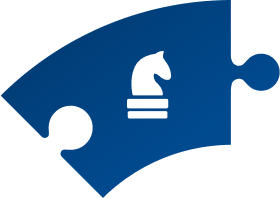
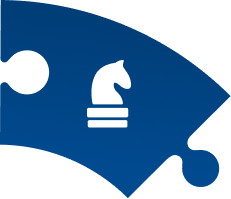
Team photos edited. Practices reposition

diff --git a/src/Pages/MainPage/Sections/Practices/Practices.tsx b/src/Pages/MainPage/Sections/Practices/Practices.tsx
@@ -54,8 +54,8 @@ export const Practices = ({ className }: IProps) => {
             <div className={practicesCn('puzzle')}>
               <div className={practicesCn('puzzle-center')}></div>
               <div
-                id={'marketing'}
-                onMouseEnter={() => setActiveSection(SectionType.Marketing)}
+                id={'banking'}
+                onMouseEnter={() => setActiveSection(SectionType.Banking)}
                 className={
                   practicesCn('puzzle-first') +
                   ' ' +
@@ -72,10 +72,19 @@ export const Practices = ({ className }: IProps) => {
                 }
               ></div>
               <div
+                id={'marketing'}
+                onMouseEnter={() => setActiveSection(SectionType.Marketing)}
+                className={
+                  practicesCn('puzzle-third') +
+                  ' ' +
+                  practicesCn('puzzle-selection')
+                }
+              ></div>
+              <div
                 id={'government'}
                 onMouseEnter={() => setActiveSection(SectionType.Government)}
                 className={
-                  practicesCn('puzzle-third') +
+                  practicesCn('puzzle-fourth') +
                   ' ' +
                   practicesCn('puzzle-selection')
                 }
@@ -84,7 +93,7 @@ export const Practices = ({ className }: IProps) => {
                 id={'investing'}
                 onMouseEnter={() => setActiveSection(SectionType.Investing)}
                 className={
-                  practicesCn('puzzle-fourth') +
+                  practicesCn('puzzle-fifth') +
                   ' ' +
                   practicesCn('puzzle-selection')
                 }
@@ -93,7 +102,7 @@ export const Practices = ({ className }: IProps) => {
                 id={'transformation'}
                 onMouseEnter={() => setActiveSection(SectionType.Transformation)}
                 className={
-                  practicesCn('puzzle-fifth') +
+                  practicesCn('puzzle-sixth') +
                   ' ' +
                   practicesCn('puzzle-selection')
                 }
@@ -102,7 +111,7 @@ export const Practices = ({ className }: IProps) => {
                 id={'innovation-projects'}
                 onMouseEnter={() => setActiveSection(SectionType.InnovationProjects)}
                 className={
-                  practicesCn('puzzle-sixth') +
+                  practicesCn('puzzle-seventh') +
                   ' ' +
                   practicesCn('puzzle-selection')
                 }
@@ -110,15 +119,6 @@ export const Practices = ({ className }: IProps) => {
               <div
                 id={'strategy'}
                 onMouseEnter={() => setActiveSection(SectionType.Strategy)}
-                className={
-                  practicesCn('puzzle-seventh') +
-                  ' ' +
-                  practicesCn('puzzle-selection')
-                }
-              ></div>
-              <div
-                id={'banking'}
-                onMouseEnter={() => setActiveSection(SectionType.Banking)}
                 className={
                   practicesCn('puzzle-eighth') +
                   ' ' +

diff --git a/src/Pages/MainPage/Sections/Practices/Practices.scss b/src/Pages/MainPage/Sections/Practices/Practices.scss
@@ -61,18 +61,6 @@
       outline: none;
     }
 
-    &-first {
-      background-image: url("@/assets/images/practices/selection.png");
-      margin-left: 264px;
-      margin-top: -100px;
-      width: 198px;
-      height: 280px;
-
-      &:hover {
-        background-image: url("@/assets/images/practices/selection-active-marketing.png");
-      }
-    }
-
     &-second {
       background-image: url("@/assets/images/practices/selection2.png");
       width: 198px;
@@ -84,6 +72,18 @@
         background-image: url("@/assets/images/practices/selection-active-efficiency.png");
       }
     }
+    
+    &-first {
+      background-image: url("@/assets/images/practices/selection.png");
+      margin-left: 264px;
+      margin-top: -100px;
+      width: 198px;
+      height: 280px;
+
+      &:hover {
+        background-image: url("@/assets/images/practices/selection-active-banking.png");
+      }
+    }
 
     &-third {
       background-image: url("@/assets/images/practices/selection3.png");
@@ -93,7 +93,7 @@
       margin-left: 85px;
 
       &:hover {
-        background-image: url("@/assets/images/practices/selection-active-government.png");
+        background-image: url("@/assets/images/practices/selection-active-efficiency.png");
       }
     }
 
@@ -105,7 +105,7 @@
       margin-left: -100px;
 
       &:hover {
-        background-image: url("@/assets/images/practices/selection-active-efficiency.png");
+        background-image: url("@/assets/images/practices/selection-active-government.png");
       }
     }
 

diff --git a/src/Pages/MainPage/Sections/Team/Team.tsx b/src/Pages/MainPage/Sections/Team/Team.tsx
@@ -87,8 +87,6 @@ export const Team = ({ className }: IProps) => {
                         className={teamCn('carousel-item-image')}
                         alt={carouselItem.name}
                         src={`/team/${carouselItem.id}.png`}
-                        width={416}
-                        height={560}
                       />
                       <div className={teamCn('carousel-item-info')}>
                         <h3 className={teamCn('worker-name')}>

diff --git a/src/Pages/MainPage/Sections/Team/Team.scss b/src/Pages/MainPage/Sections/Team/Team.scss
@@ -88,6 +88,7 @@
   &__carousel-item-image{
     width: 100%;
     object-fit: cover;
+    height: 100%;
   }
 
   &__carousel-item-info{
